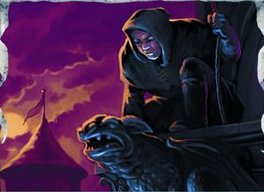
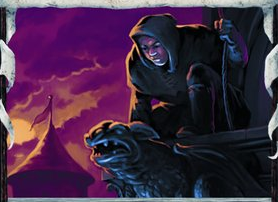
Cart art blitting kind of works, SDL_SetAlpha is nightmare mode hard to figure out

diff --git a/src/resource.cc b/src/resource.cc
@@ -29,7 +29,7 @@ Texture TextureManager::Load(const string& name, const int& unused) {
 }
 
 Texture CardTextureManager::Load(game::Card* const& card, const int& unused) {
-  static const string kCardTemplate = "img/card_template.png";
+  static const string kCardTemplate = "card_template.png";
   SDL_Rect dstRect;
   SDL_Surface* base;
   SDL_Surface* cardText;
@@ -44,17 +44,22 @@ Texture CardTextureManager::Load(game::Card* const& card, const int& unused) {
                               fmt->Bmask, fmt->Amask);
   
   // I don't know what these do but it makes it work so I'm not complaining
-  SDL_SetAlpha(cardTemplate, 0, fmt->alpha);
-  SDL_SetAlpha(base, SDL_SRCALPHA, base->format->alpha);
+  SDL_SetAlpha(base, 0, base->format->alpha);
 
-  // TODO: Render card art
+  // Card art
+  SDL_Surface* cardArt = resource::GetTexture(card->GetArt());
+  util::PositionSurface(cardArt, Vec2(0, 60), dstRect, base, kCenter);
+  if (SDL_BlitSurface(cardArt, NULL, base, &dstRect) < 0) {
+    std::cout << "Error blitting card art to base" << std::endl;
+  }
 
-  // Render card template
+  //SDL_SetAlpha(cardTemplate, 0, alpha);
+
+  // Card template
   if (SDL_BlitSurface(cardTemplate, NULL, base, NULL) < 0) {
     std::cout << "Error blitting card template to base" << std::endl;
   }
 
-  // Render text
   // Card name
   TTF_Font* font = resource::GetFont(font::GetDefault(), 32);
   cardText = util::DrawTextToSurface(font, card->GetName(), globals::black);
@@ -65,7 +70,8 @@ Texture CardTextureManager::Load(game::Card* const& card, const int& unused) {
 
   // Card stats
   font = resource::GetFont(font::GetDefault(), 18);
-  cardText = util::DrawTextToSurface(font, card::GetTypeString(card), globals::black);
+  cardText = util::DrawTextToSurface(font, card::GetTypeString(card), 
+                                     globals::black);
   SDL_FreeSurface(cardText);
 
   // Card name
@@ -87,7 +93,8 @@ Texture GetCardTexture(game::Card* card) {
 }
 
 Texture GetTexture(const string& name) {
-  return textureManager.Get(name);
+  static const string kTextureDir = "img/";
+  return textureManager.Get(kTextureDir + name);
 }
 
 void AddCard(game::Card* card) {

diff --git a/src/card.cc b/src/card.cc
@@ -73,7 +73,7 @@ static inline void SetKeyIfExists(const YAML::Node& node, const string& key,
 }
 
 game::Card* Load(const string& name) {
-  string parsedName, description;
+  string parsedName, description, art;
 
   std::ifstream fin(name.c_str());
   YAML::Parser parser(fin);
@@ -93,6 +93,7 @@ game::Card* Load(const string& name) {
 
     SetKeyIfExists<string>(doc, "name", parsedName, true, name);
     SetKeyIfExists<string>(doc, "description", description);
+    SetKeyIfExists<string>(doc, "art", art, true, name);
 
     // Load bonuses
     if (const YAML::Node* bonuses = doc.FindValue("bonuses")) {
@@ -110,7 +111,7 @@ game::Card* Load(const string& name) {
     }
   }
 
-  card = new game::Card(parsedName, description, flags, cost, actionBonus, 
+  card = new game::Card(parsedName, description, art, flags, cost, actionBonus, 
                         cardBonus, treasureBonus, victoryBonus); 
 
   std::cout << "Card Loaded: " << card->GetName() << std::endl;

diff --git a/src/gamecard.cc b/src/gamecard.cc
@@ -5,6 +5,7 @@ namespace game {
 
 Card::Card(const string& _name, 
            const string& _description, 
+           const string& _art, 
            int _types,
            int _cost, 
            int _actionBonus, 
@@ -13,6 +14,7 @@ Card::Card(const string& _name,
            int _victoryBonus) 
              : name(_name),
                description(_description),
+               art(_art),
                types(_types),
                cost(_cost),
                actionBonus(_actionBonus),
@@ -27,6 +29,10 @@ const string& Card::GetName() const {
 
 const string& Card::GetDescription() const {
   return description;
+}
+
+const string& Card::GetArt() const {
+  return art;
 }
 
 int Card::GetTreasureCost() const {

diff --git a/src/gamecard.h b/src/gamecard.h
@@ -11,6 +11,7 @@ class Card
 {
   string name;
   string description;
+  string art;
   int types;
   int cost;
 
@@ -32,11 +33,12 @@ public:
     kDefense  = 1 << 7,  //< Reaction against attacks
   };
 
-  Card(const string& name, const string& description, int types,
-       int cost, int actionBonus, int cardBonus, int treasureBonus, 
+  Card(const string& name, const string& description, const string& art, 
+       int types, int cost, int actionBonus, int cardBonus, int treasureBonus,
        int victoryBonus);
 
   const string& GetName() const;
+  const string& GetArt() const;
   const string& GetDescription() const;
 
   int GetTreasureCost() const;

diff --git a/src/util.cc b/src/util.cc
@@ -92,7 +92,7 @@ void PositionSurface(SDL_Surface* surface, const Vec2& pos, SDL_Rect& rect,
   short x, y;
   if (align == kCenter) {
     x = static_cast<short>((static_cast<float>(dstSurface->w) / 2.0) - 
-                           (static_cast<float>(surface->w) / 2.0));
+                           (static_cast<float>(surface->w) / 2.0)) + pos.x;
   } else {
     x = static_cast<short>(pos.x);
   }

diff --git a/src/dminion.cc b/src/dminion.cc
@@ -53,7 +53,7 @@ void Dminion::Run() {
     switch (event.type) {
     case SDL_KEYDOWN:
       std::cout << "The " << SDL_GetKeyName(event.key.keysym.sym)
-                 << " key was pressed!" << std::endl;
+                << " key was pressed!" << std::endl;
       break;
     case SDL_QUIT:
       done = true;
